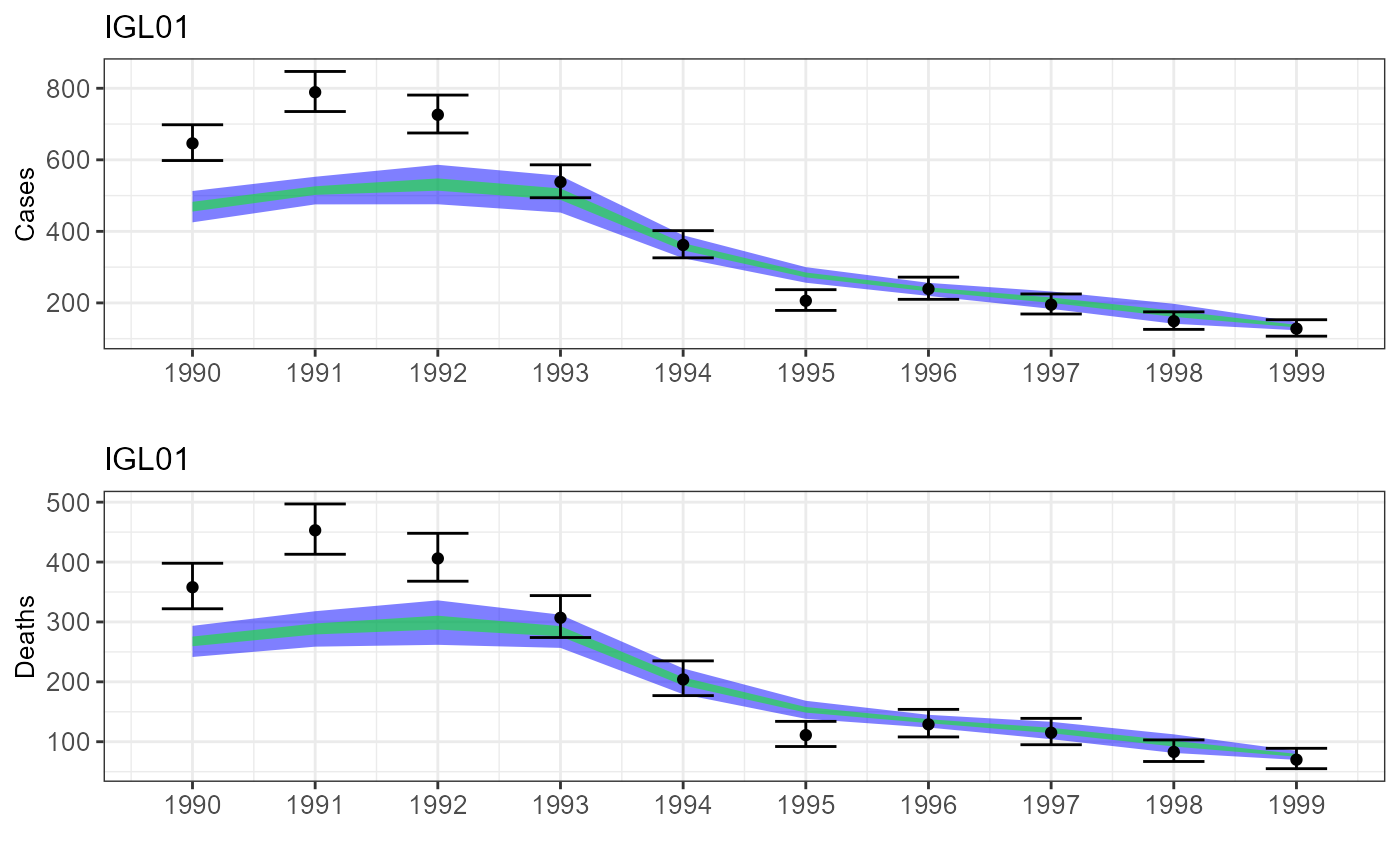
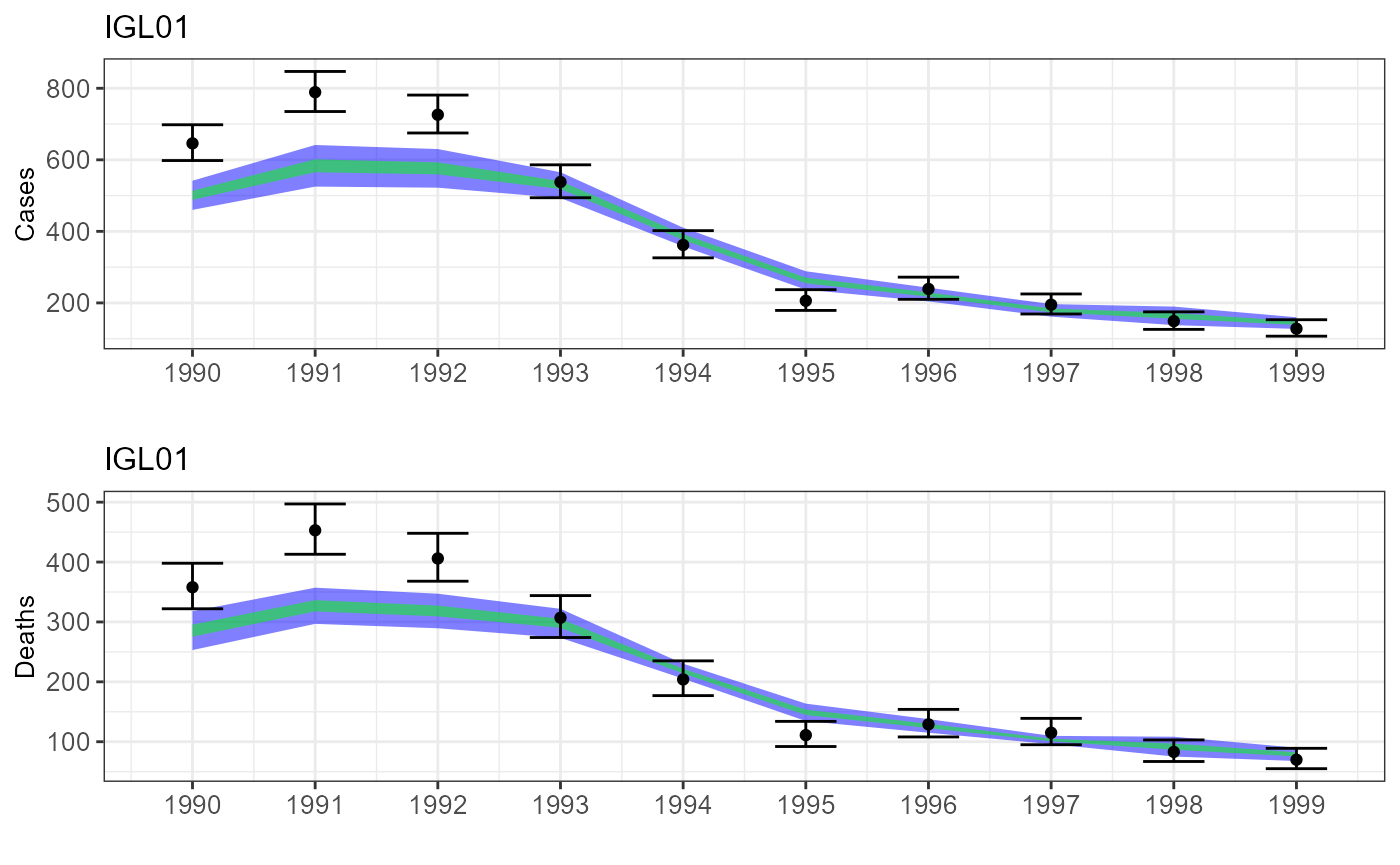
Amended vignettes

Changed region(s): [[0.1229, 0.1561, 0.9214, 0.4058], [0.1229, 0.6555, 0.9214, 0.874]]

diff --git a/docs/articles/CGuideBParametersEnvironment.html b/docs/articles/CGuideBParametersEnvironment.html
@@ -147,28 +147,14 @@ map_shapes_load() function</p>
 <div class="sourceCode" id="cb4"><pre class="downlit sourceCode r">
 <code class="sourceCode R"><span><span class="va">regions</span><span class="op">=</span><span class="va">epi_data</span><span class="op">$</span><span class="va">region</span></span>
 <span><span class="va">shape_data</span> <span class="op">&lt;-</span> <span class="fu"><a href="../reference/map_shapes_load.html">map_shapes_load</a></span><span class="op">(</span><span class="va">regions</span>, shapefiles<span class="op">=</span><span class="fu"><a href="https://rdrr.io/r/base/c.html" class="external-link">c</a></span><span class="op">(</span><span class="fu"><a href="https://rdrr.io/r/base/paste.html" class="external-link">paste</a></span><span class="op">(</span><span class="fu"><a href="https://rdrr.io/r/base/find.package.html" class="external-link">path.package</a></span><span class="op">(</span><span class="st">"YellowFeverDynamics"</span><span class="op">)</span>, <span class="st">"/exdata/shapefile_example.shp"</span>, sep <span class="op">=</span> <span class="st">""</span><span class="op">)</span><span class="op">)</span>, region_label_type<span class="op">=</span><span class="st">"GID_1"</span><span class="op">)</span></span>
-<span><span class="co">#&gt; Warning: OGR support is provided by the sf and terra packages among others</span></span>
-<span><span class="co">#&gt; Warning: OGR support is provided by the sf and terra packages among others</span></span>
-<span><span class="co">#&gt; Warning: OGR support is provided by the sf and terra packages among others</span></span>
-<span><span class="co">#&gt; Warning: OGR support is provided by the sf and terra packages among others</span></span>
-<span><span class="co">#&gt; Warning: OGR support is provided by the sf and terra packages among others</span></span>
-<span><span class="co">#&gt; Warning: OGR support is provided by the sf and terra packages among others</span></span>
-<span><span class="co">#&gt; Warning: OGR support is provided by the sf and terra packages among others</span></span>
-<span><span class="co">#&gt; OGR data source with driver: ESRI Shapefile </span></span>
-<span><span class="co">#&gt; Source: "C:\Users\Work_KJF82\AppData\Local\Temp\RtmpMnaUsH\temp_libpath389cf8f31d7\YellowFeverDynamics\exdata\shapefile_example.shp", layer: "shapefile_example"</span></span>
-<span><span class="co">#&gt; with 25 features</span></span>
-<span><span class="co">#&gt; It has 1 fields</span></span>
 <span><span class="va">colour_scheme</span><span class="op">=</span><span class="fu"><a href="https://rdrr.io/r/base/readRDS.html" class="external-link">readRDS</a></span><span class="op">(</span>file<span class="op">=</span><span class="fu"><a href="https://rdrr.io/r/base/paste.html" class="external-link">paste</a></span><span class="op">(</span><span class="fu"><a href="https://rdrr.io/r/base/find.package.html" class="external-link">path.package</a></span><span class="op">(</span><span class="st">"YellowFeverDynamics"</span><span class="op">)</span>, <span class="st">"exdata/colour_scheme_example.Rds"</span>, sep<span class="op">=</span><span class="st">"/"</span><span class="op">)</span><span class="op">)</span></span>
 <span><span class="va">colour_scale</span><span class="op">=</span><span class="va">colour_scheme</span><span class="op">$</span><span class="va">colour_scale</span></span>
-<span><span class="va">null1</span> <span class="op">&lt;-</span> <span class="fu"><a href="../reference/create_map.html">create_map</a></span><span class="op">(</span><span class="va">shape_data</span>, <span class="va">epi_data</span><span class="op">$</span><span class="va">FOI</span>, scale<span class="op">=</span><span class="fu"><a href="https://rdrr.io/r/base/pretty.html" class="external-link">pretty</a></span><span class="op">(</span><span class="va">epi_data</span><span class="op">$</span><span class="va">FOI</span>, <span class="fl">8</span><span class="op">)</span>, <span class="va">colour_scale</span>, pixels_max<span class="op">=</span><span class="fl">720</span>, text_size<span class="op">=</span><span class="fl">1</span>, map_title<span class="op">=</span><span class="st">""</span>, legend_title<span class="op">=</span><span class="st">"FOI"</span>, legend_position<span class="op">=</span><span class="st">"topleft"</span>, legend_format<span class="op">=</span><span class="st">"e"</span>, legend_dp<span class="op">=</span><span class="fl">1</span>, output_file<span class="op">=</span><span class="cn">NULL</span><span class="op">)</span></span></code></pre></div>
-<p><img src="CGuideBParametersEnvironment_files/figure-html/unnamed-chunk-5-1.png" width="700"></p>
-<div class="sourceCode" id="cb5"><pre class="downlit sourceCode r">
-<code class="sourceCode R"><span><span class="va">null2</span> <span class="op">&lt;-</span> <span class="fu"><a href="../reference/create_map.html">create_map</a></span><span class="op">(</span><span class="va">shape_data</span>, <span class="va">epi_data</span><span class="op">$</span><span class="va">R0</span>, scale<span class="op">=</span><span class="fu"><a href="https://rdrr.io/r/base/pretty.html" class="external-link">pretty</a></span><span class="op">(</span><span class="va">epi_data</span><span class="op">$</span><span class="va">R0</span>, <span class="fl">8</span><span class="op">)</span>, <span class="va">colour_scale</span>, pixels_max<span class="op">=</span><span class="fl">720</span>, text_size<span class="op">=</span><span class="fl">1</span>, map_title<span class="op">=</span><span class="st">""</span>, legend_title<span class="op">=</span><span class="st">"R0"</span>, legend_position<span class="op">=</span><span class="st">"topleft"</span>, legend_format<span class="op">=</span><span class="st">"f"</span>, legend_dp<span class="op">=</span><span class="fl">1</span>, output_file<span class="op">=</span><span class="cn">NULL</span><span class="op">)</span></span></code></pre></div>
-<p><img src="CGuideBParametersEnvironment_files/figure-html/unnamed-chunk-5-2.png" width="700"></p>
+<span><span class="va">null1</span> <span class="op">&lt;-</span> <span class="fu"><a href="../reference/create_map.html">create_map</a></span><span class="op">(</span><span class="va">shape_data</span>, <span class="va">epi_data</span><span class="op">$</span><span class="va">FOI</span>, scale<span class="op">=</span><span class="fu"><a href="https://rdrr.io/r/base/pretty.html" class="external-link">pretty</a></span><span class="op">(</span><span class="va">epi_data</span><span class="op">$</span><span class="va">FOI</span>, <span class="fl">8</span><span class="op">)</span>, <span class="va">colour_scale</span>, pixels_max<span class="op">=</span><span class="fl">720</span>, text_size<span class="op">=</span><span class="fl">1</span>, map_title<span class="op">=</span><span class="st">""</span>, legend_title<span class="op">=</span><span class="st">"FOI"</span>, legend_position<span class="op">=</span><span class="st">"topleft"</span>, legend_format<span class="op">=</span><span class="st">"e"</span>, legend_dp<span class="op">=</span><span class="fl">1</span>, output_file<span class="op">=</span><span class="cn">NULL</span><span class="op">)</span></span>
+<span><span class="va">null2</span> <span class="op">&lt;-</span> <span class="fu"><a href="../reference/create_map.html">create_map</a></span><span class="op">(</span><span class="va">shape_data</span>, <span class="va">epi_data</span><span class="op">$</span><span class="va">R0</span>, scale<span class="op">=</span><span class="fu"><a href="https://rdrr.io/r/base/pretty.html" class="external-link">pretty</a></span><span class="op">(</span><span class="va">epi_data</span><span class="op">$</span><span class="va">R0</span>, <span class="fl">8</span><span class="op">)</span>, <span class="va">colour_scale</span>, pixels_max<span class="op">=</span><span class="fl">720</span>, text_size<span class="op">=</span><span class="fl">1</span>, map_title<span class="op">=</span><span class="st">""</span>, legend_title<span class="op">=</span><span class="st">"R0"</span>, legend_position<span class="op">=</span><span class="st">"topleft"</span>, legend_format<span class="op">=</span><span class="st">"f"</span>, legend_dp<span class="op">=</span><span class="fl">1</span>, output_file<span class="op">=</span><span class="cn">NULL</span><span class="op">)</span></span></code></pre></div>
 <p>To generate a distribution of spillover FOI and R0 values for each
 region, a distribution of environmental coefficient values can be
 used:</p>
-<div class="sourceCode" id="cb6"><pre class="downlit sourceCode r">
+<div class="sourceCode" id="cb5"><pre class="downlit sourceCode r">
 <code class="sourceCode R"><span><span class="va">enviro_coeffs2</span> <span class="op">&lt;-</span> <span class="fu"><a href="https://rdrr.io/r/utils/read.table.html" class="external-link">read.csv</a></span><span class="op">(</span>file <span class="op">=</span> <span class="fu"><a href="https://rdrr.io/r/base/paste.html" class="external-link">paste</a></span><span class="op">(</span><span class="fu"><a href="https://rdrr.io/r/base/find.package.html" class="external-link">path.package</a></span><span class="op">(</span><span class="st">"YellowFeverDynamics"</span><span class="op">)</span>, <span class="st">"/exdata/enviro_coeffs_example_multi.csv"</span>, sep <span class="op">=</span> <span class="st">""</span><span class="op">)</span>, header <span class="op">=</span> <span class="cn">TRUE</span><span class="op">)</span></span>
 <span><span class="fu"><a href="https://rdrr.io/r/utils/head.html" class="external-link">head</a></span><span class="op">(</span><span class="va">enviro_coeffs2</span>, <span class="fl">5</span><span class="op">)</span></span>
 <span><span class="co">#&gt;      FOI_Var1    FOI_Var2    FOI_Var3    FOI_Var4    FOI_Var5   R0_Var1</span></span>
@@ -183,7 +169,7 @@ used:</p>
 <span><span class="co">#&gt; 3 0.2080452 0.08543495 0.2080452 0.1176548</span></span>
 <span><span class="co">#&gt; 4 0.2187119 0.08981530 0.2187119 0.1119167</span></span>
 <span><span class="co">#&gt; 5 0.2165357 0.08629359 0.2039256 0.1130415</span></span></code></pre></div>
-<div class="sourceCode" id="cb7"><pre class="downlit sourceCode r">
+<div class="sourceCode" id="cb6"><pre class="downlit sourceCode r">
 <code class="sourceCode R"><span><span class="va">n_values</span><span class="op">=</span><span class="fu"><a href="https://rdrr.io/r/base/nrow.html" class="external-link">nrow</a></span><span class="op">(</span><span class="va">enviro_coeffs2</span><span class="op">)</span></span>
 <span><span class="va">epi_data</span> <span class="op">&lt;-</span> <span class="fu"><a href="https://rdrr.io/r/base/list.html" class="external-link">list</a></span><span class="op">(</span>FOI <span class="op">=</span> <span class="fu"><a href="https://rdrr.io/r/base/array.html" class="external-link">array</a></span><span class="op">(</span><span class="cn">NA</span>, dim <span class="op">=</span> <span class="fu"><a href="https://rdrr.io/r/base/c.html" class="external-link">c</a></span><span class="op">(</span><span class="va">n_values</span>,<span class="va">n_regions</span><span class="op">)</span><span class="op">)</span>, R0 <span class="op">=</span> <span class="fu"><a href="https://rdrr.io/r/base/array.html" class="external-link">array</a></span><span class="op">(</span><span class="cn">NA</span>, dim <span class="op">=</span> <span class="fu"><a href="https://rdrr.io/r/base/c.html" class="external-link">c</a></span><span class="op">(</span><span class="va">n_values</span>,<span class="va">n_regions</span><span class="op">)</span><span class="op">)</span><span class="op">)</span></span>
 <span><span class="kw">for</span><span class="op">(</span><span class="va">n_value</span> <span class="kw">in</span> <span class="fl">1</span><span class="op">:</span><span class="va">n_values</span><span class="op">)</span><span class="op">{</span></span>

diff --git a/docs/articles/BWorkedExampleDBurden.html b/docs/articles/BWorkedExampleDBurden.html
@@ -116,19 +116,19 @@ across all regions for each year and parameter set.</p>
 <div class="sourceCode" id="cb2"><pre class="downlit sourceCode r">
 <code class="sourceCode R"><span><span class="fu"><a href="https://rdrr.io/r/utils/head.html" class="external-link">head</a></span><span class="op">(</span><span class="va">results</span><span class="op">$</span><span class="va">by_region</span>,<span class="fl">5</span><span class="op">)</span></span>
 <span><span class="co">#&gt;   year region set  cases deaths</span></span>
-<span><span class="co">#&gt; 1 2000  IGL01   1  960.4  379.8</span></span>
-<span><span class="co">#&gt; 2 2000  IGL02   1  128.8   44.2</span></span>
-<span><span class="co">#&gt; 3 2000  IGL03   1 1562.6  623.2</span></span>
-<span><span class="co">#&gt; 4 2000  IGL04   1 2329.8  907.8</span></span>
-<span><span class="co">#&gt; 5 2000  IGL05   1 1538.8  591.2</span></span></code></pre></div>
+<span><span class="co">#&gt; 1 2000  IGL01   1  885.2  336.4</span></span>
+<span><span class="co">#&gt; 2 2000  IGL02   1  121.6   47.0</span></span>
+<span><span class="co">#&gt; 3 2000  IGL03   1 1472.8  572.4</span></span>
+<span><span class="co">#&gt; 4 2000  IGL04   1 2521.8  983.6</span></span>
+<span><span class="co">#&gt; 5 2000  IGL05   1 1412.4  550.8</span></span></code></pre></div>
 <div class="sourceCode" id="cb3"><pre class="downlit sourceCode r">
 <code class="sourceCode R"><span><span class="fu"><a href="https://rdrr.io/r/utils/head.html" class="external-link">head</a></span><span class="op">(</span><span class="va">results</span><span class="op">$</span><span class="va">all</span>,<span class="fl">5</span><span class="op">)</span></span>
 <span><span class="co">#&gt;   year set   cases deaths</span></span>
-<span><span class="co">#&gt; 1 2000   1 21370.8 8295.2</span></span>
-<span><span class="co">#&gt; 2 2000   2 19582.2 7609.6</span></span>
-<span><span class="co">#&gt; 3 2000   3 19413.2 7576.4</span></span>
-<span><span class="co">#&gt; 4 2000   4 19935.6 7787.6</span></span>
-<span><span class="co">#&gt; 5 2000   5 20255.2 7879.6</span></span></code></pre></div>
+<span><span class="co">#&gt; 1 2000   1 21216.2 8254.2</span></span>
+<span><span class="co">#&gt; 2 2000   2 19836.0 7711.2</span></span>
+<span><span class="co">#&gt; 3 2000   3 20034.6 7812.6</span></span>
+<span><span class="co">#&gt; 4 2000   4 20270.2 7916.2</span></span>
+<span><span class="co">#&gt; 5 2000   5 19964.0 7787.0</span></span></code></pre></div>
 <p>We can use the output of total_burden_estimate() to, for example,
 model vaccine impact by examining the difference in burden between a
 no-vaccination scenario and a scenario featuring a specified vaccination
